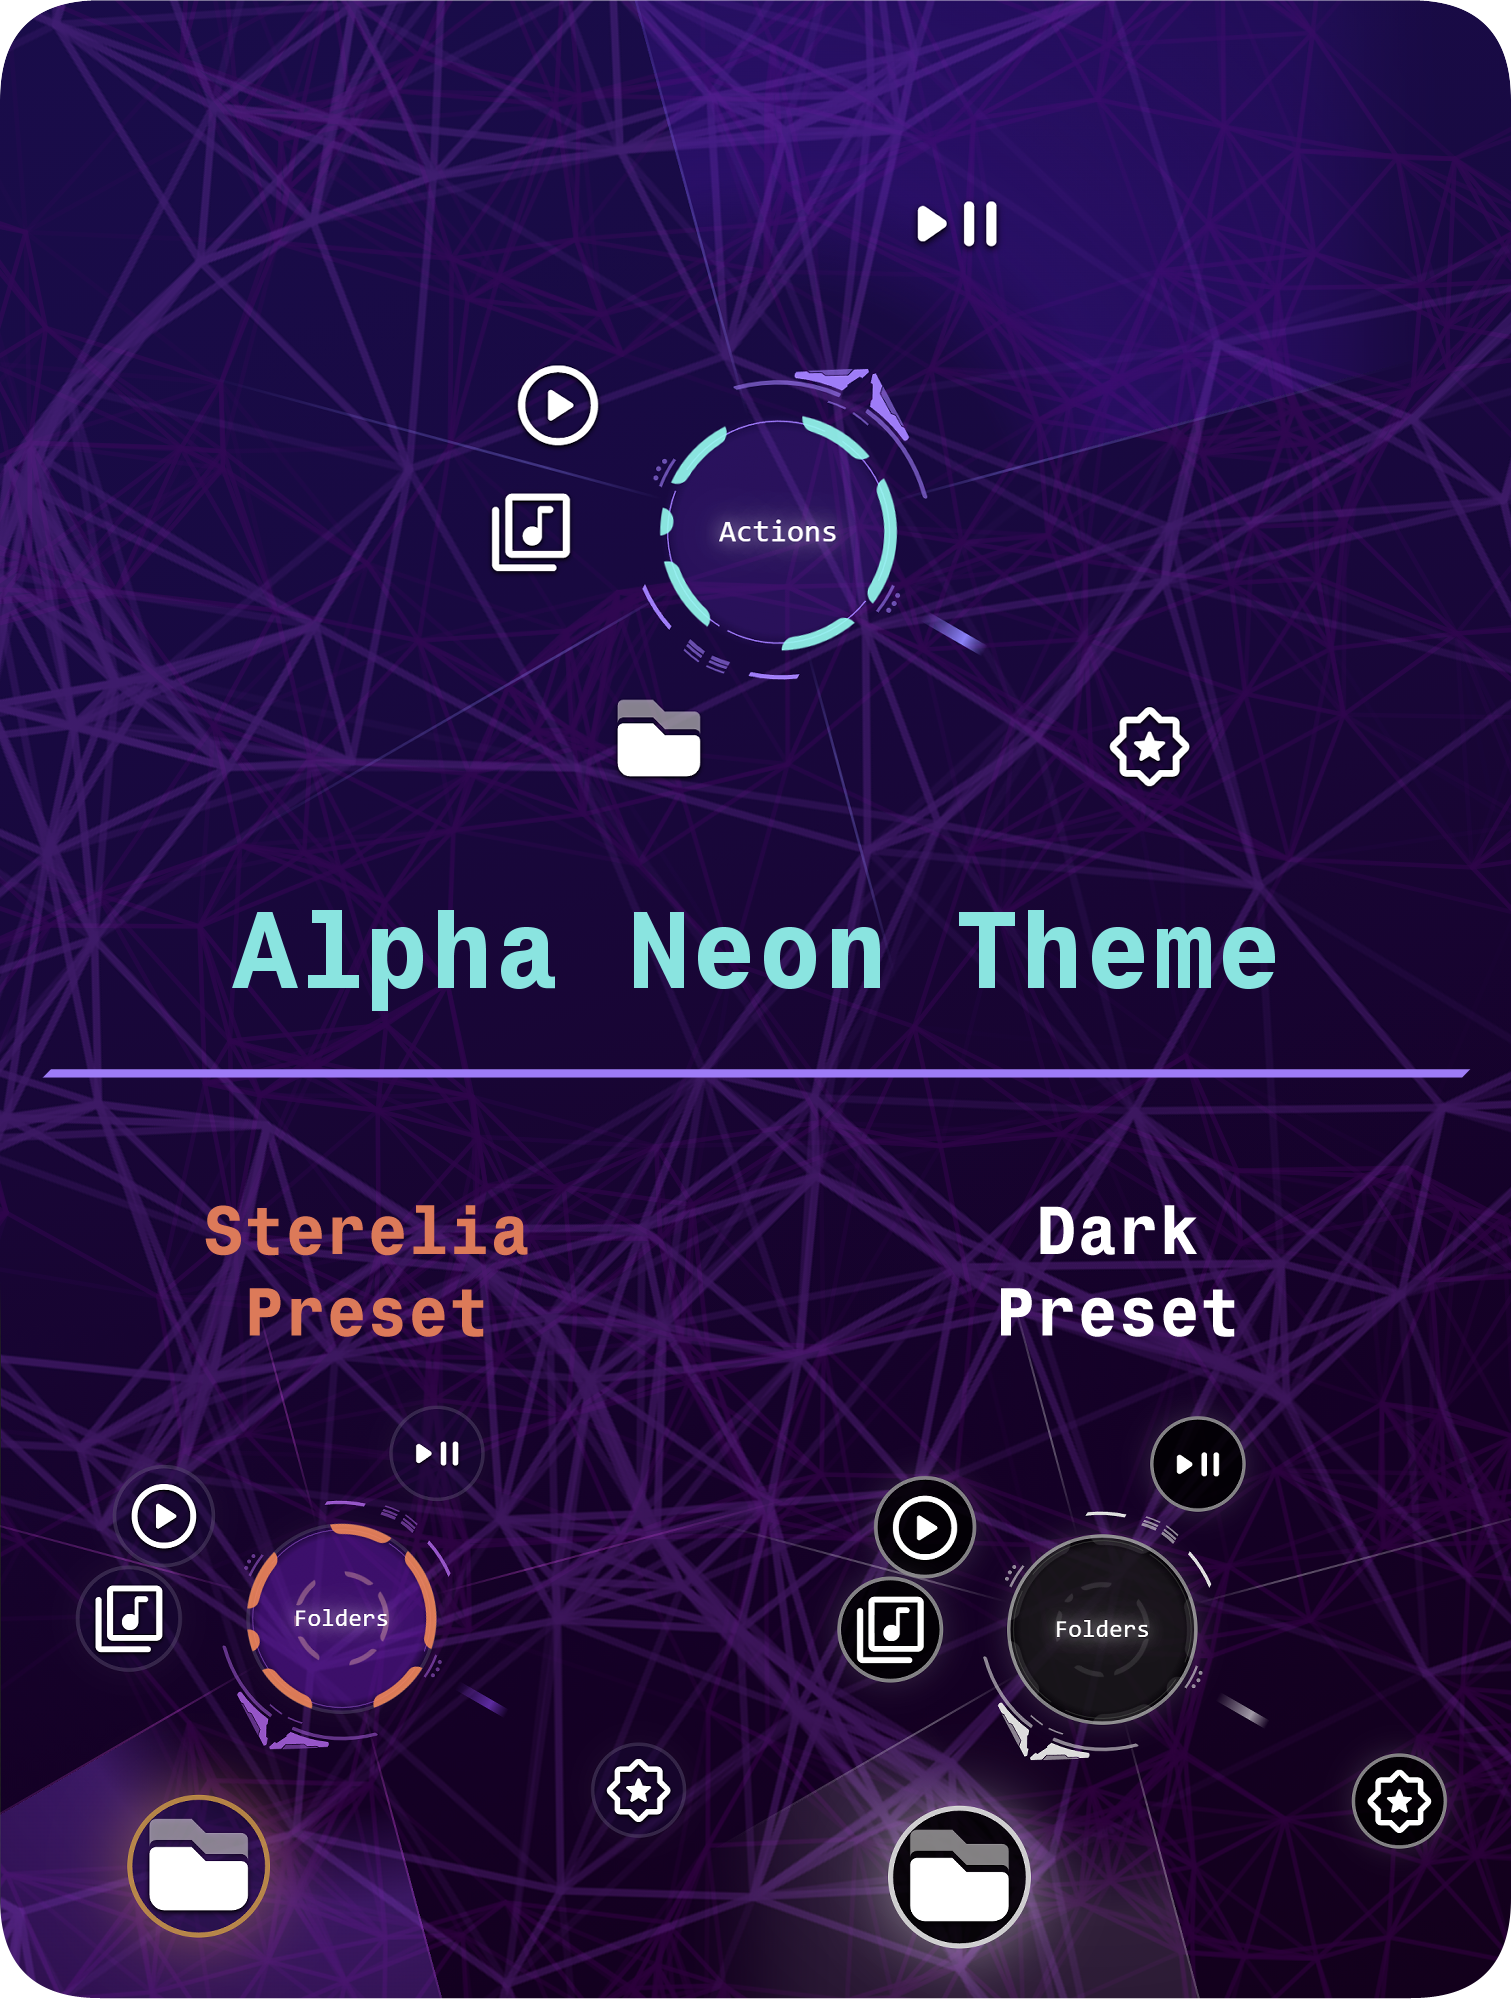
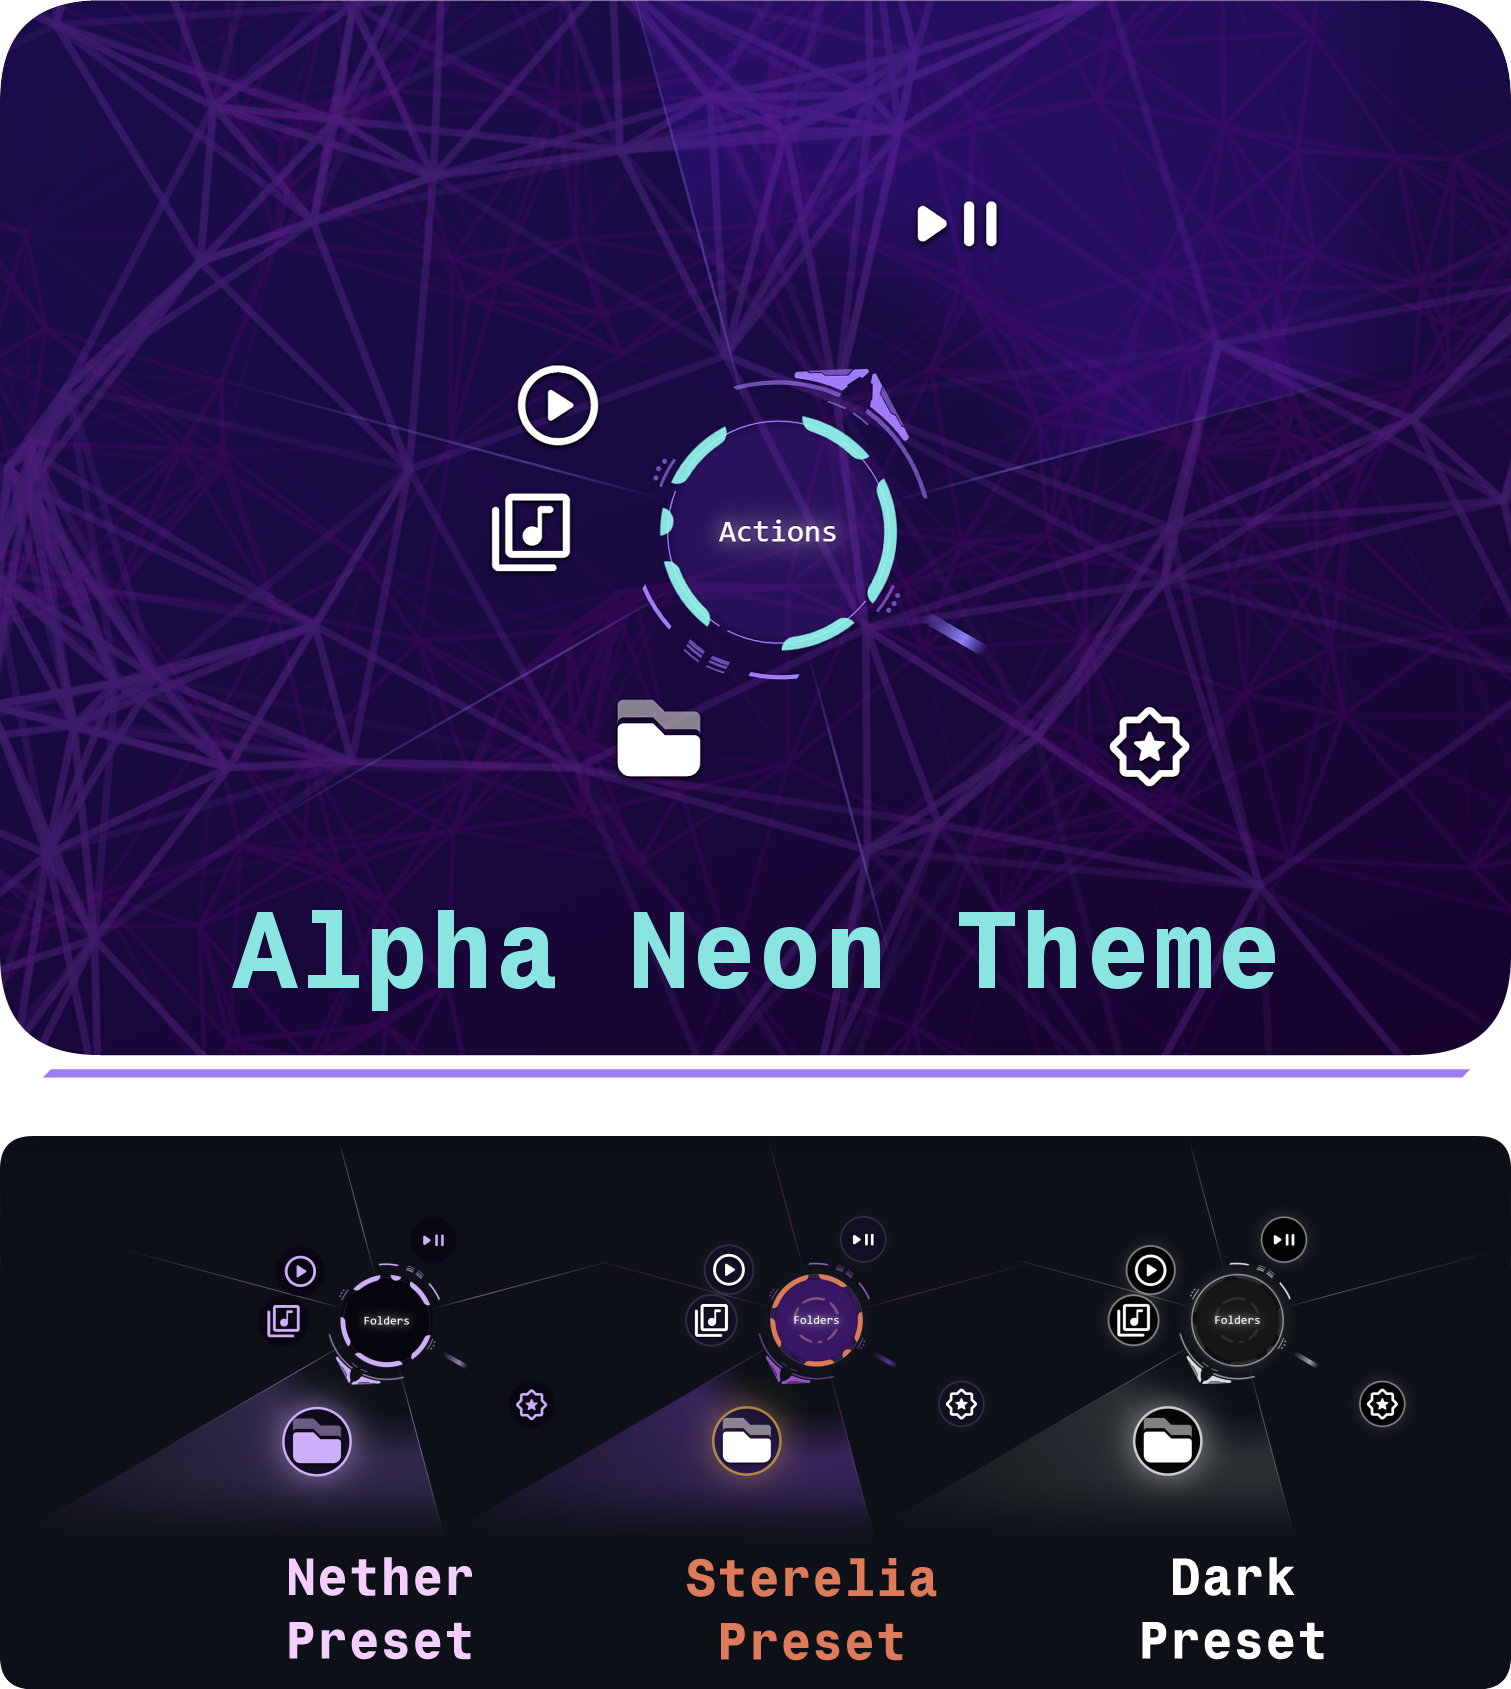
:art: Alpha Neon Update 3.1 (#23)

diff --git a/themes/alpha-neon/theme.css b/themes/alpha-neon/theme.css
@@ -66,7 +66,7 @@
        center item and the child items. */
   .icon-container {
     opacity: 0;
-    color: white;
+    color: var(--Icons);
     transition: var(--opacity-transition); 
     filter: drop-shadow(0 1px 1px rgba(0, 0, 0, 1)) /*-- ICONS DROP SHADOW --*/
   }
@@ -250,7 +250,7 @@
 /* Center Text ------------------------------------------------------------------------ */
 
 .center-text {
-  color: white;
+  color: var(--Text);
   transition: var(--opacity-transition);
   text-shadow: 0 0 8px rgba(255, 255, 255, 0.8), 0 0 20px rgba(255, 255, 255, 0.4);
   font-size: 13px;

diff --git a/README.md b/README.md
@@ -34,7 +34,7 @@ Afterwards, you will have to restart Kando, and then you can select the new them
 | Theme                                                                                                                                                                                                                                                                                                                                                                                                                                                            | Preview                                            |
 | ---------------------------------------------------------------------------------------------------------------------------------------------------------------------------------------------------------------------------------------------------------------------------------------------------------------------------------------------------------------------------------------------------------------------------------------------------------------- | -------------------------------------------------- |
 | [**Adwaita Circles**](./themes/adwaita-circles/)<br>A clean theme aiming to follow the Adwaita design language from the Gnome Desktop.<br>Labels are only shown when hovering over a circle.<br><br>[![Download](https://img.shields.io/badge/🡇-Download-blue?style=flat)](https://github.com/kando-menu/menu-themes/releases/latest/download/adwaita-circles.zip)                                                                                               | ![preview](./themes/adwaita-circles/preview.jpg)   |
-| [**Alpha Neon**](./themes/alpha-neon/) <br>A futuristic take on the neon-light theme with 12 color options and 2 presets to help you utilize it. <br> <br> [![Download](https://img.shields.io/badge/🡇-Download-blue?style=flat)](https://github.com/kando-menu/menu-themes/releases/latest/download/alpha-neon.zip)                                                                                                                                             | ![preview](./themes/alpha-neon/preview.jpg)        |
+| [**Alpha Neon**](./themes/alpha-neon/) <br>A futuristic take on the neon-light theme with 14 color options and 3 presets to help you utilize it. <br> <br> [![Download](https://img.shields.io/badge/🡇-Download-blue?style=flat)](https://github.com/kando-menu/menu-themes/releases/latest/download/alpha-neon.zip)                                                                                                                                             | ![preview](./themes/alpha-neon/preview.jpg)        |
 | [**Bent Photon**](./themes/bent-photon/)<br>A clean and stylish theme made by [NeighNeighNeigh](https://github.com/NeighNeighNeigh/Kando_Themes). <br> <br> [![Download](https://img.shields.io/badge/🡇-Download-blue?style=flat)](https://github.com/kando-menu/menu-themes/releases/latest/download/bent-photon.zip)                                                                                                                                           | ![preview](./themes/bent-photon/preview.jpg)       |
 | [**EVNTech Vache**](./themes/evntech-vache/)<br>Mix of Nether Lables and default theme.<br><br>[![Download](https://img.shields.io/badge/🡇-Download-blue?style=flat)](https://github.com/kando-menu/menu-themes/releases/latest/download/evntech-vache.zip)                                                                                                                                                                                                      | ![preview](./themes/evntech-vache/preview.jpg)     |
 | [**Hexperiment**](./themes/hexperiment/) <br>A very experimental theme. It only works up to 6 items. Also, if you have fewer, you should ensure that all items are arranged in the six cardinal directions. Otherwise, the menu will look weird. <br> <br> [![Download](https://img.shields.io/badge/🡇-Download-blue?style=flat)](https://github.com/kando-menu/menu-themes/releases/latest/download/hexperiment.zip)                                            | ![preview](./themes/hexperiment/preview.jpg)       |
